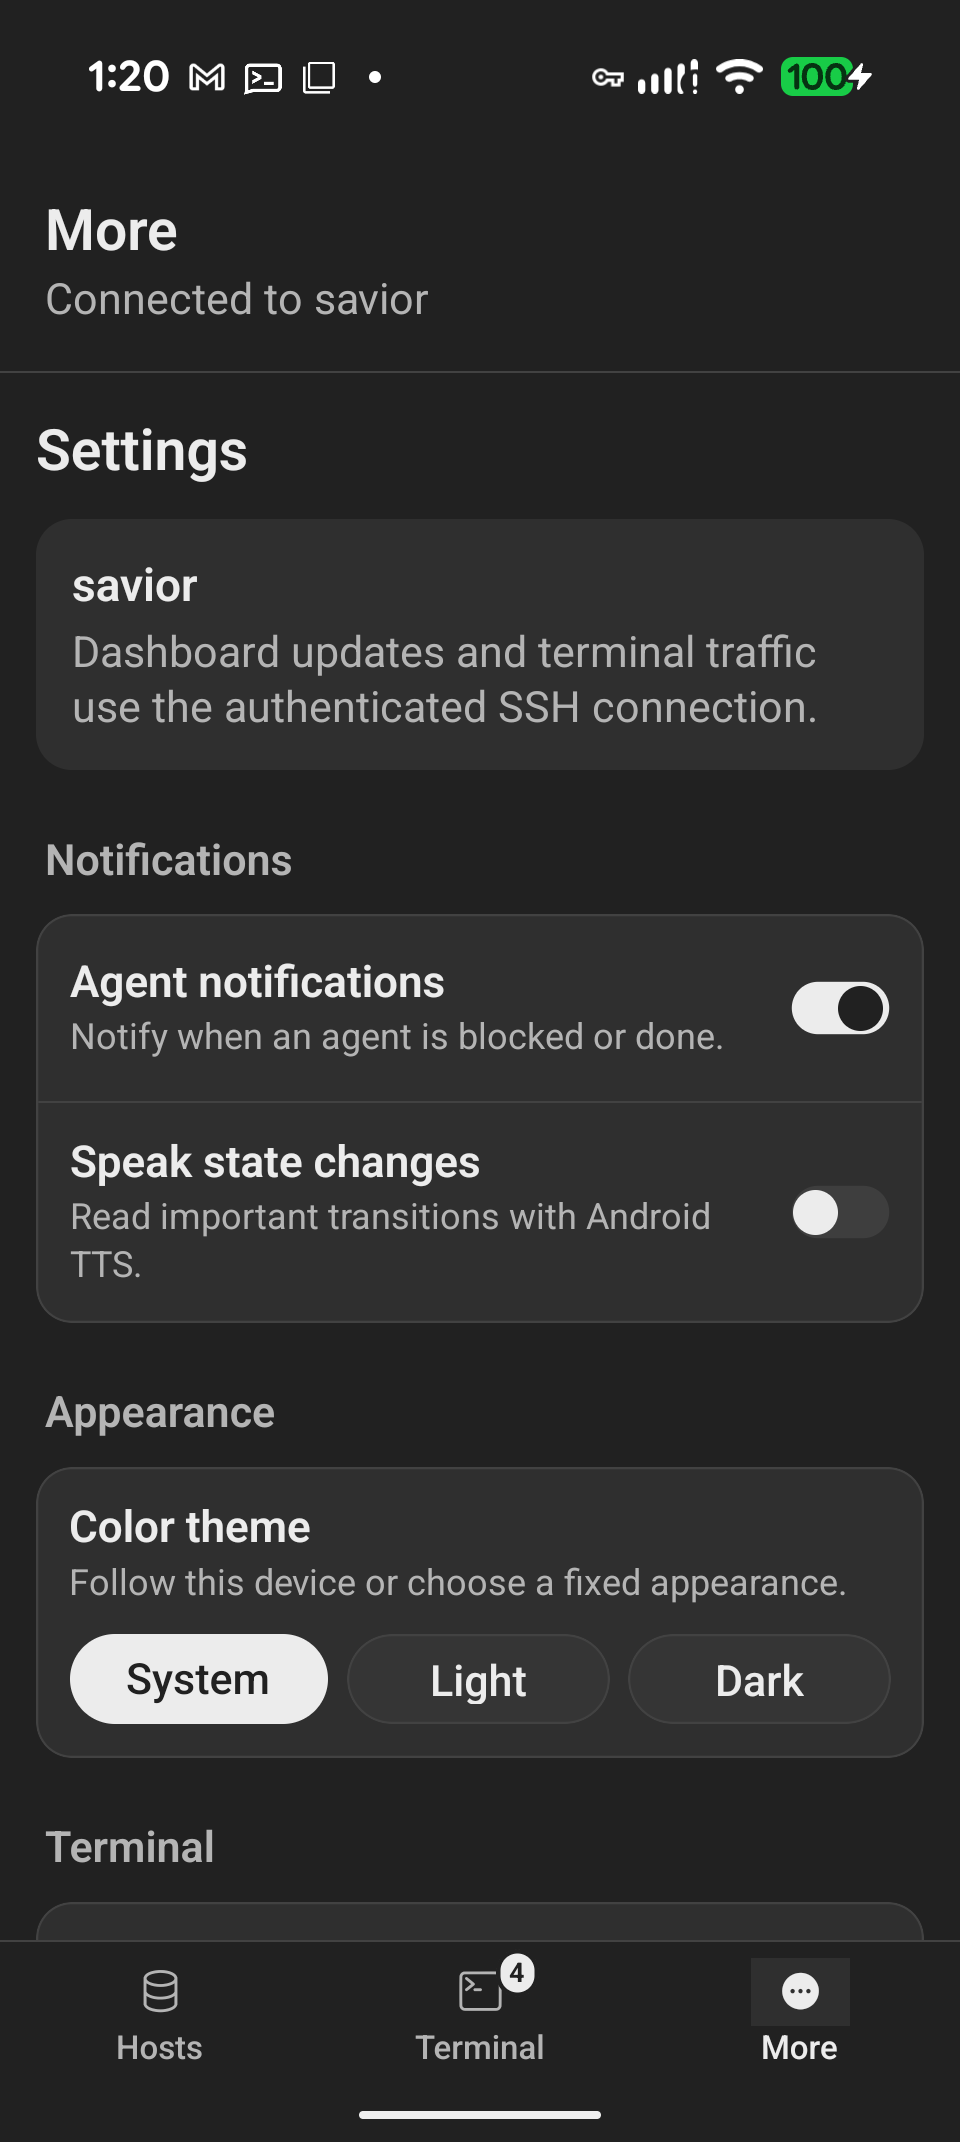
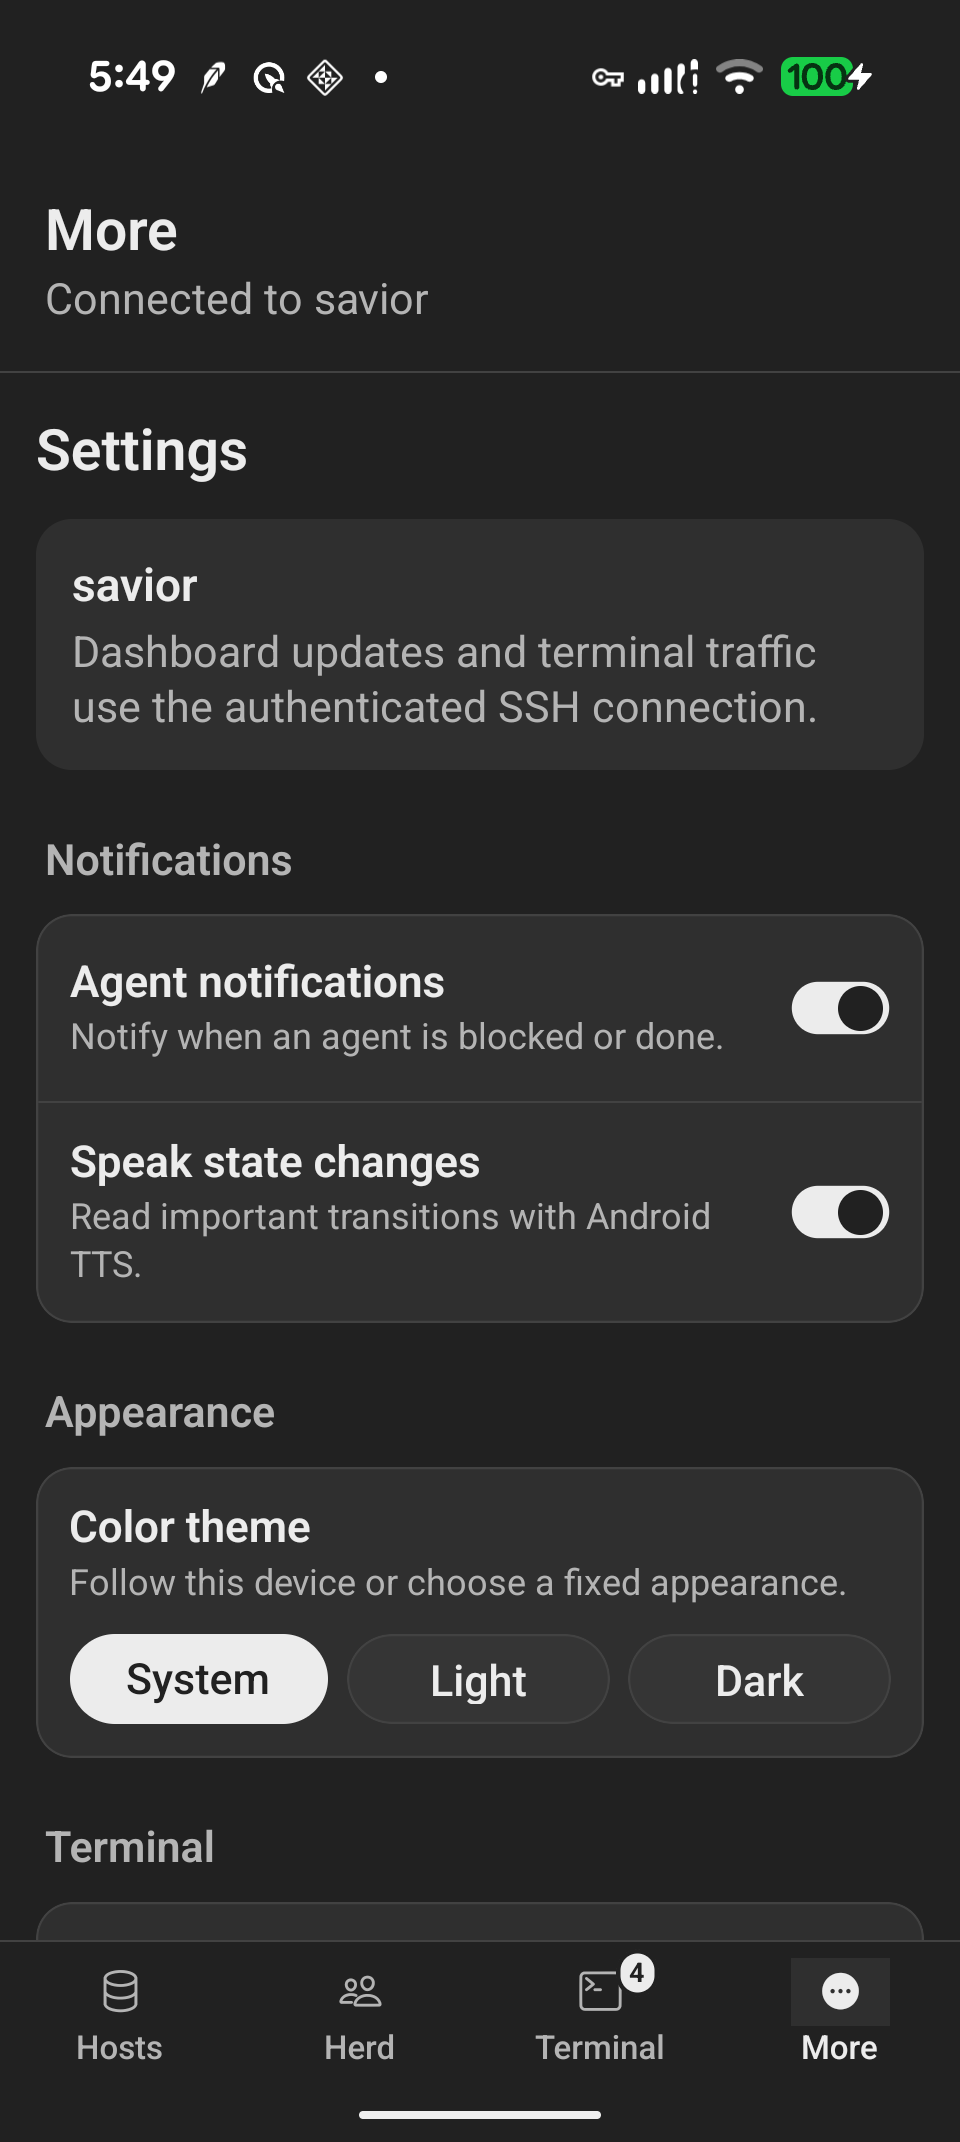
doc: refresh README screenshots

diff --git a/README.md b/README.md
@@ -6,7 +6,7 @@
 
 <p align="center">
   <strong>Keep your Herdr agents within reach.</strong><br>
-  An independent Android client for supervising agents, navigating workspaces, and opening pane terminals over SSH.
+  An independent Android client for supervising agents, scoping hosts and spaces, and opening pane terminals over SSH.
 </p>
 
 <p align="center">
@@ -15,6 +15,8 @@
 </p>
 
 Whip gives [Herdr](https://github.com/ogulcancelik/herdr) a touch-friendly Android interface without exposing Herdr itself to the network or requiring changes on the host. It connects directly to your machine over SSH—ideally through Tailscale—and rebuilds the management experience as native screens. A terminal appears only when you choose to attach to a pane.
+
+The app separates connection management from daily supervision: **Hosts** manages saved SSH endpoints, **Herd** merges their agents into a scoped attention queue, **Terminal** lists open pane sessions, and **More** holds notification, appearance, and terminal preferences.
 
 Whip is not developed, maintained, or endorsed by the Herdr project or its authors.
 
@@ -25,27 +27,34 @@ Whip is not developed, maintained, or endorsed by the Herdr project or its autho
 
 <table>
   <tr>
-    <td align="center"><img src="assets/screenshots/hosts.png" alt="Whip Hosts screen showing several saved Herdr servers and connection status" width="260"></td>
-    <td align="center"><img src="assets/screenshots/terminal.png" alt="Whip terminal showing host, workspace, tab, agent output, and mobile controls" width="260"></td>
-    <td align="center"><img src="assets/screenshots/settings.png" alt="Whip Settings screen showing notifications, speech, appearance, and terminal preferences" width="260"></td>
+    <td align="center"><img src="assets/screenshots/hosts.png" alt="Whip Hosts screen showing saved Herdr servers, connection state, and latency" width="320"></td>
+    <td align="center"><img src="assets/screenshots/herd.png" alt="Whip Herd screen showing merged host scopes, agent totals, and the attention queue" width="320"></td>
   </tr>
   <tr>
     <td align="center"><strong>Manage every host</strong><br>See live connection state, latency, and saved authentication at a glance.</td>
-    <td align="center"><strong>Work from anywhere</strong><br>Switch hosts, spaces, and tabs while interacting with a live agent terminal.</td>
-    <td align="center"><strong>Tune your workflow</strong><br>Configure agent alerts, speech, appearance, and terminal behavior.</td>
+    <td align="center"><strong>Watch the whole herd</strong><br>Merge open hosts into one attention queue, then scope it to a host or space.</td>
+  </tr>
+  <tr>
+    <td align="center"><img src="assets/screenshots/terminal.png" alt="Whip terminal showing live agent output, tab controls, a scroll indicator, and mobile keys" width="320"></td>
+    <td align="center"><img src="assets/screenshots/settings.png" alt="Whip Settings screen showing notifications, speech, appearance, and terminal preferences" width="320"></td>
+  </tr>
+  <tr>
+    <td align="center"><strong>Work from anywhere</strong><br>Open a selected pane in the full-width terminal with touch scrolling and mobile controls.</td>
+    <td align="center"><strong>Tune your workflow</strong><br>Configure agent alerts, speech, appearance, font size, and scrollback.</td>
   </tr>
 </table>
 
-Screenshots were captured from the Whip 1.0 release build on a Pixel 9 Pro.
+Screenshots were captured from the current Whip Android build on a Pixel 9 Pro.
 
 ## What you can do
 
-- See working, blocked, done, idle, and unknown agents in a native attention queue.
+- Monitor every open host in one native attention queue, with per-host and per-space scopes.
+- See working, blocked, done, idle, and unknown agents, including their host and space context.
 - Move through Herdr hosts, spaces, tabs, panes, and agents without living in a terminal.
-- Create, focus, rename, split, zoom, inspect, and close workspace resources.
+- Create, focus, rename, split, zoom, inspect, and close space resources.
 - Launch agents, send direct prompts, and send commands or special keys to a pane.
 - Attach to any selected pane through an immersive, xterm-compatible terminal.
-- Use ANSI colors, modifier keys, touch scrolling, double-tap Tab, live resizing, and configurable terminal appearance.
+- Use ANSI colors, modifier keys, touch scrolling, Page Up/Down, a position indicator, double-tap Tab, live resizing, and configurable terminal appearance.
 - Receive local notifications, vibration, and optional speech when an agent becomes blocked or finishes.
 - Save password or private-key credentials with Android Keystore and encrypted, device-authenticated Block Store recovery.
 - Keep several named Herdr hosts open and switch between their live sessions.